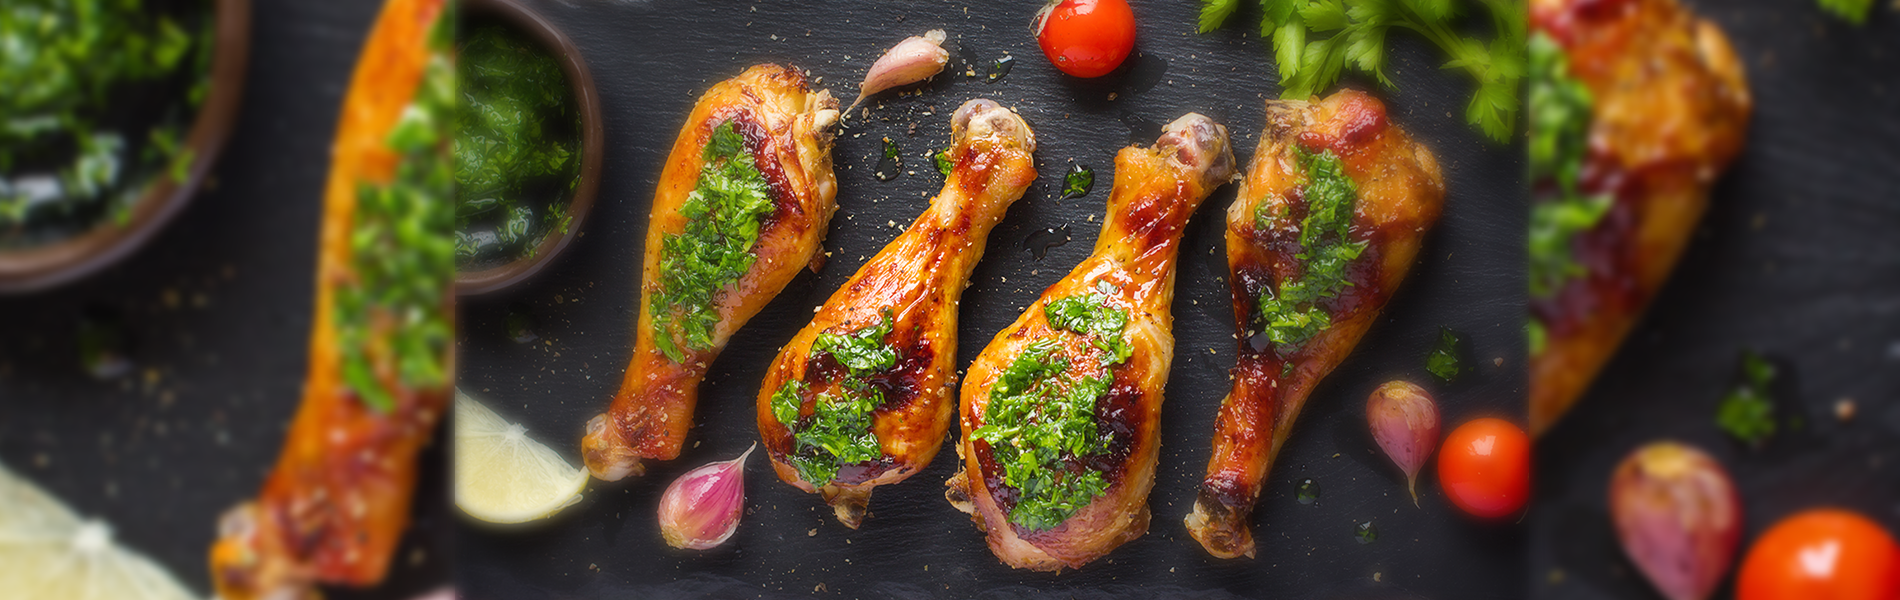
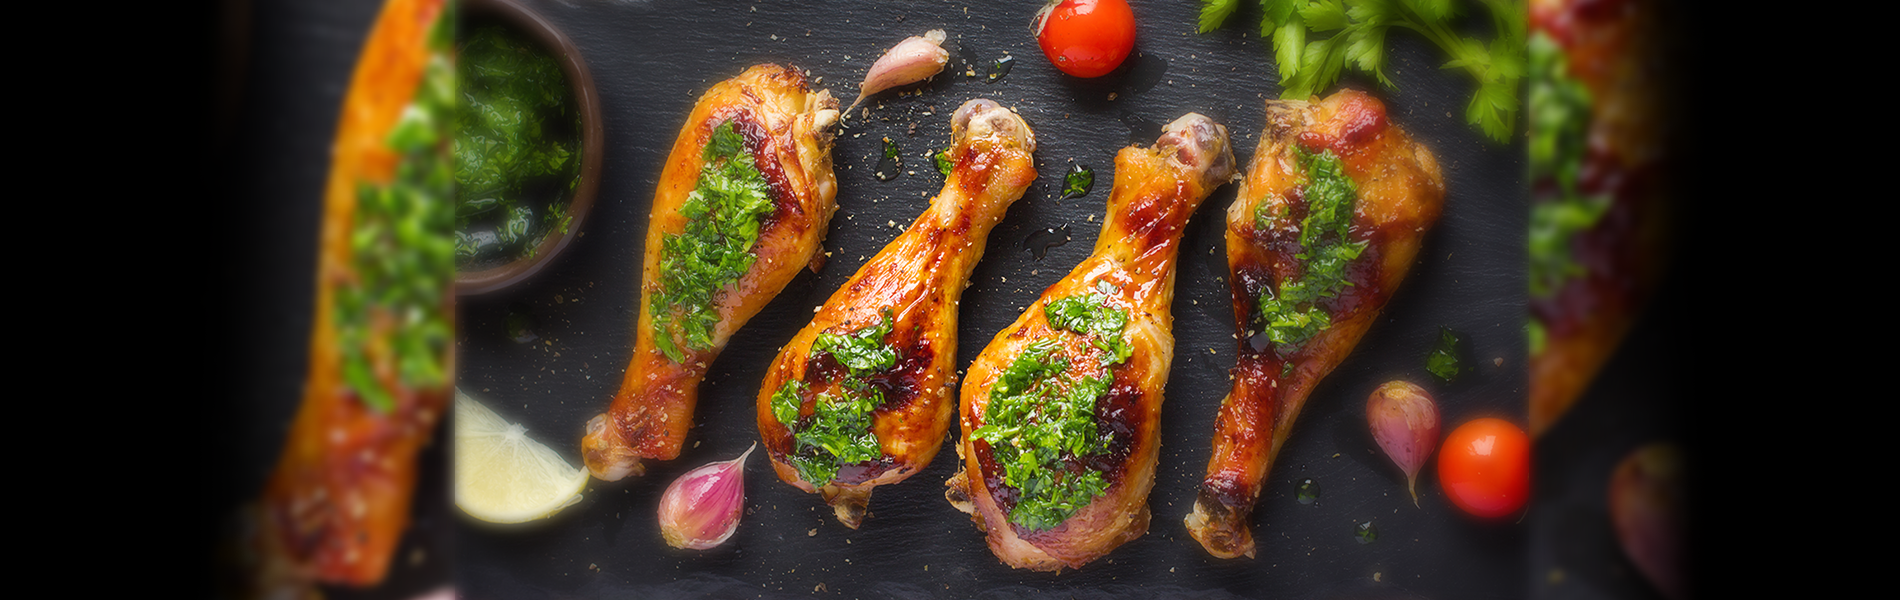
Página Final

Changed region(s): [[0.8074, 0.0, 1.0, 1.0], [0.0, 0.0, 0.1863, 1.0]]

diff --git a/paginas/dulce.html b/paginas/dulce.html
@@ -27,7 +27,7 @@
         <div class="row">
             <div class="col fixed-top bg-light">
                 <header>
-                    <a class="nav-link text-center bg-dark text-light h1" href="./index.html">Your Food</a>
+                    <a class="nav-link text-center bg-dark text-light h1" href="../index.html">Your Food</a>
                     <nav class="navbar navbar-expand-lg navbar-light bg-light shadow p-3">
                         <button class="navbar-toggler" type="button" data-bs-toggle="collapse"
                             data-bs-target="#navbarNavAltMarkup" aria-controls="navbarNavAltMarkup"
@@ -75,8 +75,7 @@
                             class="list-group-item list-group-item-action list-group-item-light">Donas</a>
                     </li>
                     <li>
-                        <a href="#receta3" class="list-group-item list-group-item-action list-group-item-light">Flan
-                            Casero</a>
+                        <a href="#receta3" class="list-group-item list-group-item-action list-group-item-light">Flan Casero</a>
                     </li>
                     <li>
                         <a href="#receta4"
@@ -85,11 +84,12 @@
                 </ul>
             </article>
         </section>
-
+        
         <!-- PRIMER RECETA -->
         <!-- TÍTULO DE LA RECETA -->
+        <a class="ancla" name="receta1"></a>
 
-        <div class="row text-center" id="receta1">
+        <div class="row text-center" >
             <div class="col">
                 <h2 class="mb-5 mt-5 fondo-titulo">LEMÓN PIE</h2>
             </div>
@@ -232,8 +232,9 @@
 
         <!-- SEGUNDA RECETA -->
         <!-- TÍTULO DE LA RECETA -->
+        <a class="ancla" name="receta2"></a>
 
-        <div class="row text-center" id="receta2">
+        <div class="row text-center">
             <div class="col">
                 <h2 class="mb-5 mt-5 fondo-titulo">DONAS</h2>
             </div>
@@ -357,8 +358,9 @@
 
         <!-- TERCER RECETA -->
         <!-- TÍTULO DE LA RECETA -->
+        <a class="ancla" name="receta3"></a>
 
-        <div class="row text-center" id="receta3">
+        <div class="row text-center">
             <div class="col">
                 <h2 class="mb-5 mt-5 fondo-titulo">FLAN CASERO</h2>
             </div>
@@ -451,8 +453,9 @@
 
         <!-- CUARTA RECETA -->
         <!-- TÍTULO DE LA RECETA -->
+        <a class="ancla" name="receta4"></a>
 
-        <div class="row text-center" id="receta4">
+        <div class="row text-center">
             <div class="col">
                 <h2 class="mb-5 mt-5 fondo-titulo">TIRAMISU</h2>
             </div>
@@ -550,7 +553,9 @@
         <footer class="fuente_roboto">
             <div class="row2 fondoFooter text-light pt-2 alinear">
                 <div class="col">
-                    <p class="centrado">Your Food</p>
+                    <p class="centrado ">
+                        <a class="text-light link" href="../index.html">Your Food</a>
+                    </p>
                 </div>
                 <div class="col">
                     <p>yourfood@mail.com</p>

diff --git a/paginas/salado.html b/paginas/salado.html
@@ -27,7 +27,7 @@
         <div class="row">
             <div class="col fixed-top bg-light">
                 <header>
-                    <a class="nav-link text-center bg-dark text-light h1" href="./index.html">Your Food</a>
+                    <a class="nav-link text-center bg-dark text-light h1" href="../index.html">Your Food</a>
                     <nav class="navbar navbar-expand-lg navbar-light bg-light shadow p-3">
                         <button class="navbar-toggler" type="button" data-bs-toggle="collapse"
                             data-bs-target="#navbarNavAltMarkup" aria-controls="navbarNavAltMarkup"
@@ -89,8 +89,9 @@
         </section>
         <!-- PRIMER RECETA -->
         <!-- TÍTULO DE LA RECETA -->
+        <a class="ancla" name="receta1"></a>
 
-        <div class="row text-center" id="receta1">
+        <div class="row text-center">
             <div class="col">
                 <h2 class="mb-5 mt-5 fondo-titulo">POLLO FRITO</h2>
             </div>
@@ -183,8 +184,9 @@
 
         <!-- SEGUNDA RECETA -->
         <!-- TÍTULO DE LA RECETA -->
+        <a class="ancla" name="receta2"></a>
 
-        <div class="row text-center" id="receta2">
+        <div class="row text-center">
             <div class="col">
                 <h2 class="mb-5 mt-5 fondo-titulo">PIZZA</h2>
             </div>
@@ -271,8 +273,9 @@
 
         <!-- TERCER RECETA -->
         <!-- TÍTULO DE LA RECETA -->
+        <a class="ancla" name="receta3"></a>
 
-        <div class="row text-center" id="receta3">
+        <div class="row text-center">
             <div class="col">
                 <h2 class="mb-5 mt-5 fondo-titulo">FIDEOS CON SALSA BOLOGNESA</h2>
             </div>
@@ -362,8 +365,9 @@
 
         <!-- CUARTA RECETA -->
         <!-- TÍTULO DE LA RECETA -->
+        <a class="ancla" name="receta4"></a>
 
-        <div class="row text-center" id="receta4">
+        <div class="row text-center">
             <div class="col">
                 <h2 class="mb-5 mt-5 fondo-titulo">TACOS DE TERNERA</h2>
             </div>
@@ -463,7 +467,9 @@
         <footer class="fuente_roboto">
             <div class="row2 fondoFooter text-light pt-2 alinear">
                 <div class="col">
-                    <p class="centrado">Your Food</p>
+                    <p class="centrado ">
+                        <a class="text-light link" href="../index.html">Your Food</a>
+                    </p>
                 </div>
                 <div class="col">
                     <p>yourfood@mail.com</p>

diff --git a/paginas/vegetariano.html b/paginas/vegetariano.html
@@ -27,7 +27,7 @@
         <div class="row">
             <div class="col fixed-top bg-light">
                 <header>
-                    <a class="nav-link text-center bg-dark text-light h1" href="./index.html">Your Food</a>
+                    <a class="nav-link text-center bg-dark text-light h1" href="../index.html">Your Food</a>
                     <nav class="navbar navbar-expand-lg navbar-light bg-light shadow p-3">
                         <button class="navbar-toggler" type="button" data-bs-toggle="collapse"
                             data-bs-target="#navbarNavAltMarkup" aria-controls="navbarNavAltMarkup"
@@ -86,8 +86,9 @@
         </section>
         <!-- PRIMER RECETA -->
         <!-- TÍTULO DE LA RECETA -->
+        <a class="ancla" name="receta1"></a>
 
-        <div class="row text-center" id="receta1">
+        <div class="row text-center">
             <div class="col">
                 <h2 class="mb-5 mt-5 fondo-titulo">HAMBURGUESA</h2>
             </div>
@@ -163,8 +164,9 @@
 
         <!-- SEGUNDA RECETA -->
         <!-- TÍTULO DE LA RECETA -->
+        <a class="ancla" name="receta2"></a>
 
-        <div class="row text-center" id="receta2">
+        <div class="row text-center">
             <div class="col">
                 <h2 class="mb-5 mt-5 fondo-titulo">ENSALADA</h2>
             </div>
@@ -232,8 +234,9 @@
 
         <!-- TERCER RECETA -->
         <!-- TÍTULO DE LA RECETA -->
+        <a class="ancla" name="receta3"></a>
 
-        <div class="row text-center" id="receta3">
+        <div class="row text-center">
             <div class="col">
                 <h2 class="mb-5 mt-5 fondo-titulo">TOFU CON SALSA DE MANDARINA</h2>
             </div>
@@ -338,7 +341,9 @@
         <footer class="fuente_roboto">
             <div class="row2 fondoFooter text-light pt-2 alinear">
                 <div class="col">
-                    <p class="centrado">Your Food</p>
+                    <p class="centrado ">
+                        <a class="text-light link" href="../index.html">Your Food</a>
+                    </p>
                 </div>
                 <div class="col">
                     <p>yourfood@mail.com</p>

diff --git a/paginas/contacto.html b/paginas/contacto.html
@@ -20,7 +20,7 @@
         <div class="row">
             <div class="col fixed-top bg-light">
                 <header>
-                    <a class="nav-link text-center bg-dark text-light h1" href="./index.html">Your Food</a>
+                    <a class="nav-link text-center bg-dark text-light h1" href="../index.html">Your Food</a>
                     <nav class="navbar navbar-expand-lg navbar-light bg-light shadow p-3">
                         <button class="navbar-toggler" type="button" data-bs-toggle="collapse"
                             data-bs-target="#navbarNavAltMarkup" aria-controls="navbarNavAltMarkup"
@@ -50,7 +50,7 @@
 
                 <div class="row">
 
-                    <div class="col">
+                    <div class="col text-center">
                         <img src="../multimedia/pizarra.png" alt="pizarra menu" class="img-fluid imagen imagen-borde mb-3">
                     </div>
                     <div class="col">
@@ -106,7 +106,9 @@
             <footer class="fuente_roboto">
                 <div class="row2 fondoFooter text-light pt-2 alinear">
                     <div class="col">
-                        <p class="centrado">Your Food</p>
+                        <p class="centrado ">
+                            <a class="text-light link" href="../index.html">Your Food</a>
+                        </p>
                     </div>
                     <div class="col">
                         <p>yourfood@mail.com</p>

diff --git a/css/style.css b/css/style.css
@@ -19,8 +19,11 @@ h3 {
 .display-1 {
   font-size: 3rem; }
 
-.nav-link:hover {
+nav ul li a:hover {
   border-bottom: 2px solid black; }
+
+.link {
+  text-decoration: none; }
 
 @media only screen and (max-width: 768px) {
   /* TAMAÑO FUENTES */
@@ -77,6 +80,11 @@ h3 {
   text-decoration: none;
   border-bottom: 1px solid rgba(0, 0, 0, 0.175); }
 
+body {
+  background-image: url(../multimedia/fondo.png);
+  background-size: contain;
+  background-repeat: repeat; }
+
 * {
   margin: 0px;
   padding: 0px; }
@@ -109,6 +117,13 @@ h3 {
 .margen_top3 {
   margin-top: 10rem; }
 
+.ancla:before {
+  display: block;
+  content: counter(ancla);
+  margin-top: -120px;
+  height: 120px;
+  visibility: hidden; }
+
 .lista-padding-right {
   padding-inline-start: 0px; }
 
@@ -140,6 +155,10 @@ h3 {
     .navbar-expand-lg .navbar-toggler {
       align-self: start;
       margin-right: 2rem; } }
+
+@media only screen and (max-width: 668px) {
+  .margen_top2 {
+    margin-top: 7.5rem; } }
 
 /* --TABLETS-- */
 @media only screen and (max-width: 768px) {

diff --git a/scss/estilo.scss b/scss/estilo.scss
@@ -44,6 +44,13 @@ $margen: 2rem;
 .margen_top3{
     margin-top: $margen+8;
 }
+.ancla:before {       
+    display: block;
+    content: counter(ancla);     
+    margin-top: -120px;       
+    height: 120px;       
+    visibility: hidden; 
+  } 
 
 .lista-padding-right{
     padding-inline-start: 0px;
@@ -64,6 +71,8 @@ $margen: 2rem;
 }
 
 
+
+
 @media only screen and (max-width:669px){
     .row2{
         display: block;
@@ -72,6 +81,7 @@ $margen: 2rem;
         text-align: center;
     }
 }
+
 
 @media only screen and (max-width:1577px){
     .margen_top2{
@@ -89,6 +99,16 @@ $margen: 2rem;
         }
 }
 }
+
+@media only screen and (max-width:668px) {
+
+    .margen_top2{
+        margin-top: $margen+5.5;
+    }
+
+}
+    
+
 /* --TABLETS-- */
 
 @media only screen and (max-width:768px) {
@@ -104,6 +124,8 @@ $margen: 2rem;
     .row {
         display: block;
     }
+
+    
 
     /* ESPACIADO */
     .list-group-item {

diff --git a/index.html b/index.html
@@ -22,7 +22,7 @@
 </head>
 
 <body>
-    <div class="container-fluid">
+    <div class="container-fluid ">
         <!-- BARRA DE NAVEGACIÓN -->
         <div class="row">
             <div class="col fixed-top bg-light">
@@ -181,7 +181,9 @@
         <footer class="fuente_roboto">
             <div class="row2 fondoFooter text-light pt-2 alinear">
                 <div class="col">
-                    <p class="centrado">Your Food</p>
+                    <p class="centrado ">
+                        <a class="text-light link" href="./index.html">Your Food</a>
+                    </p>
                 </div>
                 <div class="col">
                     <p>yourfood@mail.com</p>

diff --git a/scss/_fondos.scss b/scss/_fondos.scss
@@ -38,3 +38,9 @@
     text-decoration: none;
     border-bottom: 1px solid rgba(0, 0, 0, 0.175);
 }
+
+body{
+    background-image: url(../multimedia/fondo.png);
+    background-size: contain;
+    background-repeat: repeat;
+}

diff --git a/scss/_textos.scss b/scss/_textos.scss
@@ -28,8 +28,13 @@ h3{
     font-size: $margen+1;
 }
 
-.nav-link:hover {
+nav ul li a:hover{
     border-bottom: 2px solid black;
+}
+
+
+.link{
+    text-decoration: none;
 }
 
 @media only screen and (max-width:768px) {
